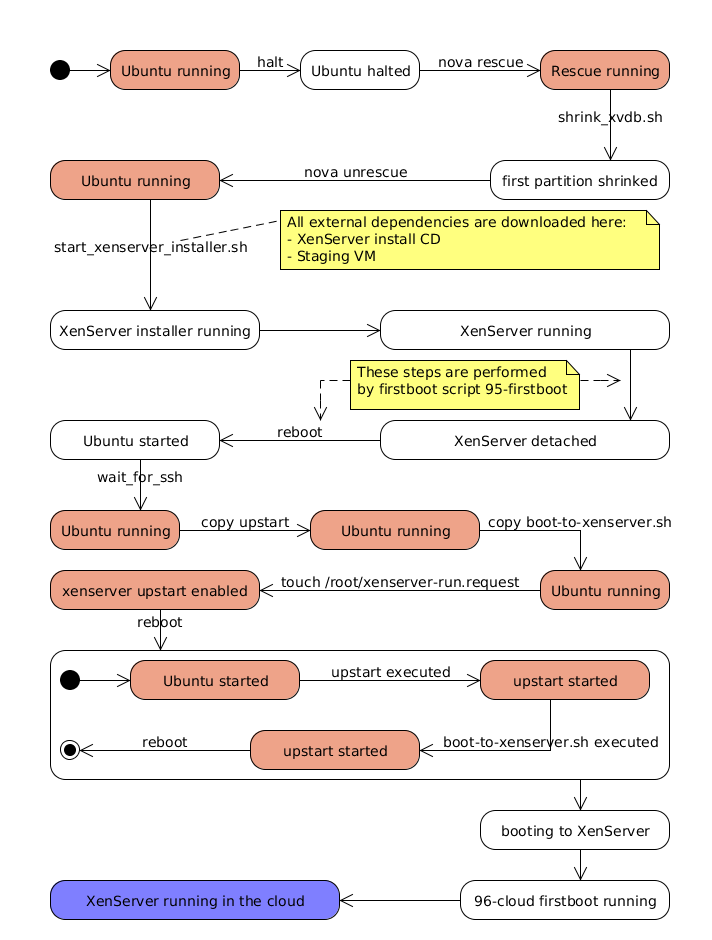
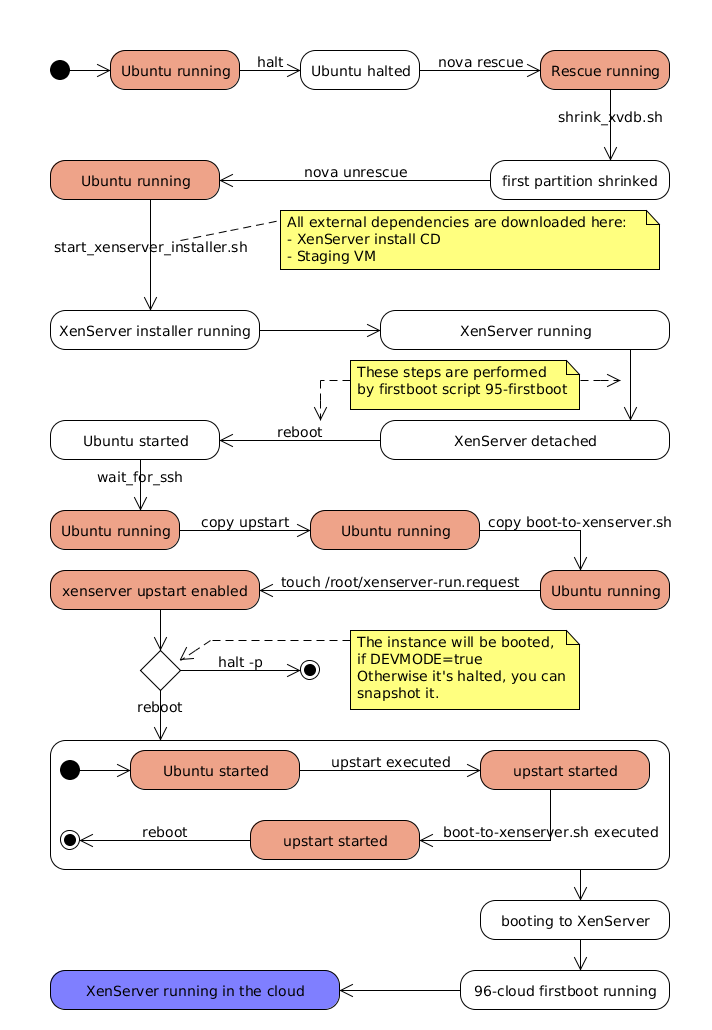
update doc and diagram

Changed region(s): [[0.0618, 0.0309, 0.9579, 0.9872], [0.927, 0.3085, 0.9579, 0.3394]]

diff --git a/README.md b/README.md
@@ -16,8 +16,10 @@ In this case, I will use `xspassword`.
 
 With all the parameters, the command should look like this:
 
-    ./rs-xenserver.sh "xs62" "xspassword" first-cloud-boot/xenserver-firstboot-access-dom0.sh
+    DEVMODE=true ./rs-xenserver.sh "xs62" "xspassword" \
+        first-cloud-boot/xenserver-firstboot-access-dom0.sh
 
 ## Start XenServer with a Staging VM
 
-    ./rs-xenserver.sh "xs62" "xspassword" first-cloud-boot/xenserver-firstboot-access-staging-vm.sh
+    DEVMODE=true ./rs-xenserver.sh "xs62" "xspassword" \
+        first-cloud-boot/xenserver-firstboot-access-staging-vm.sh
